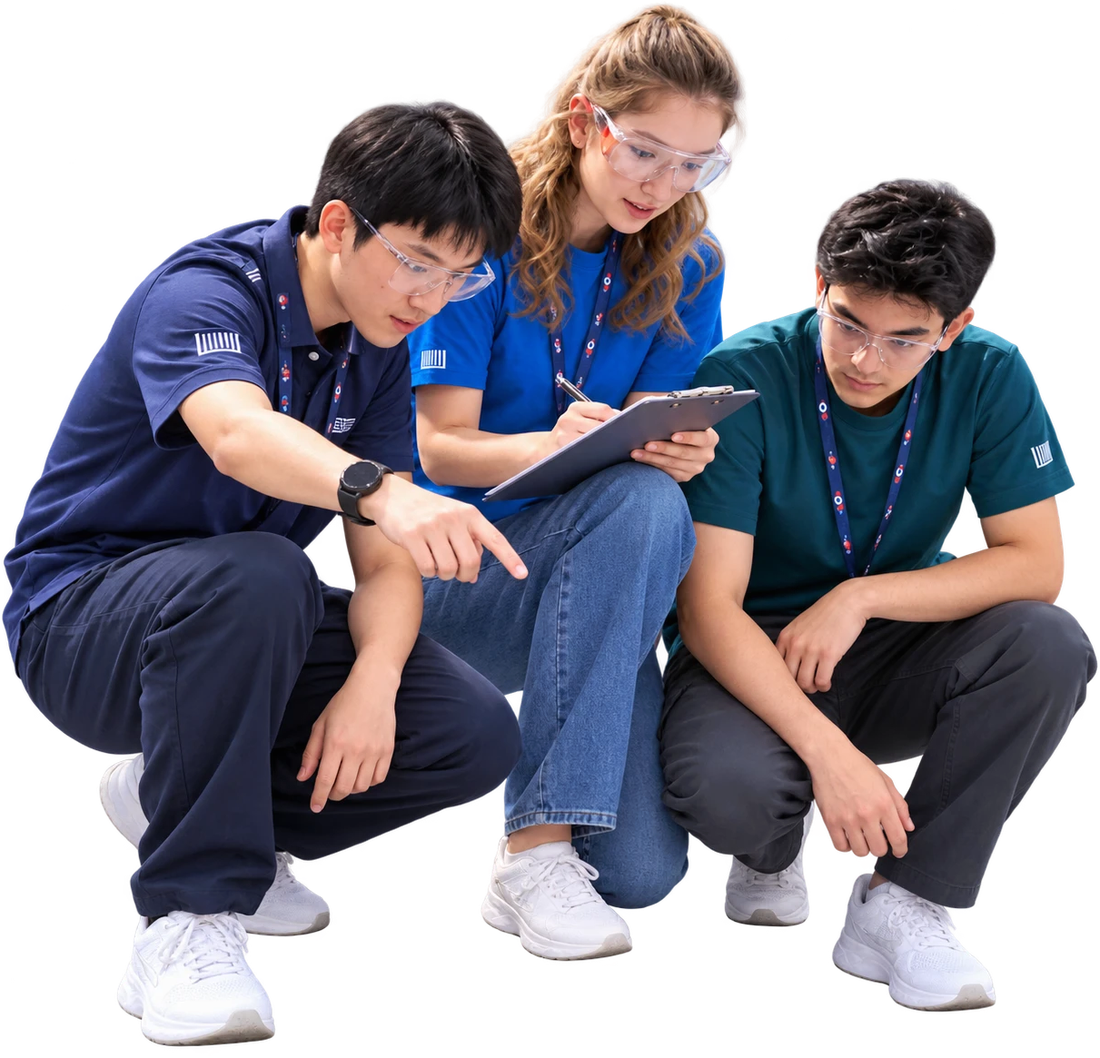
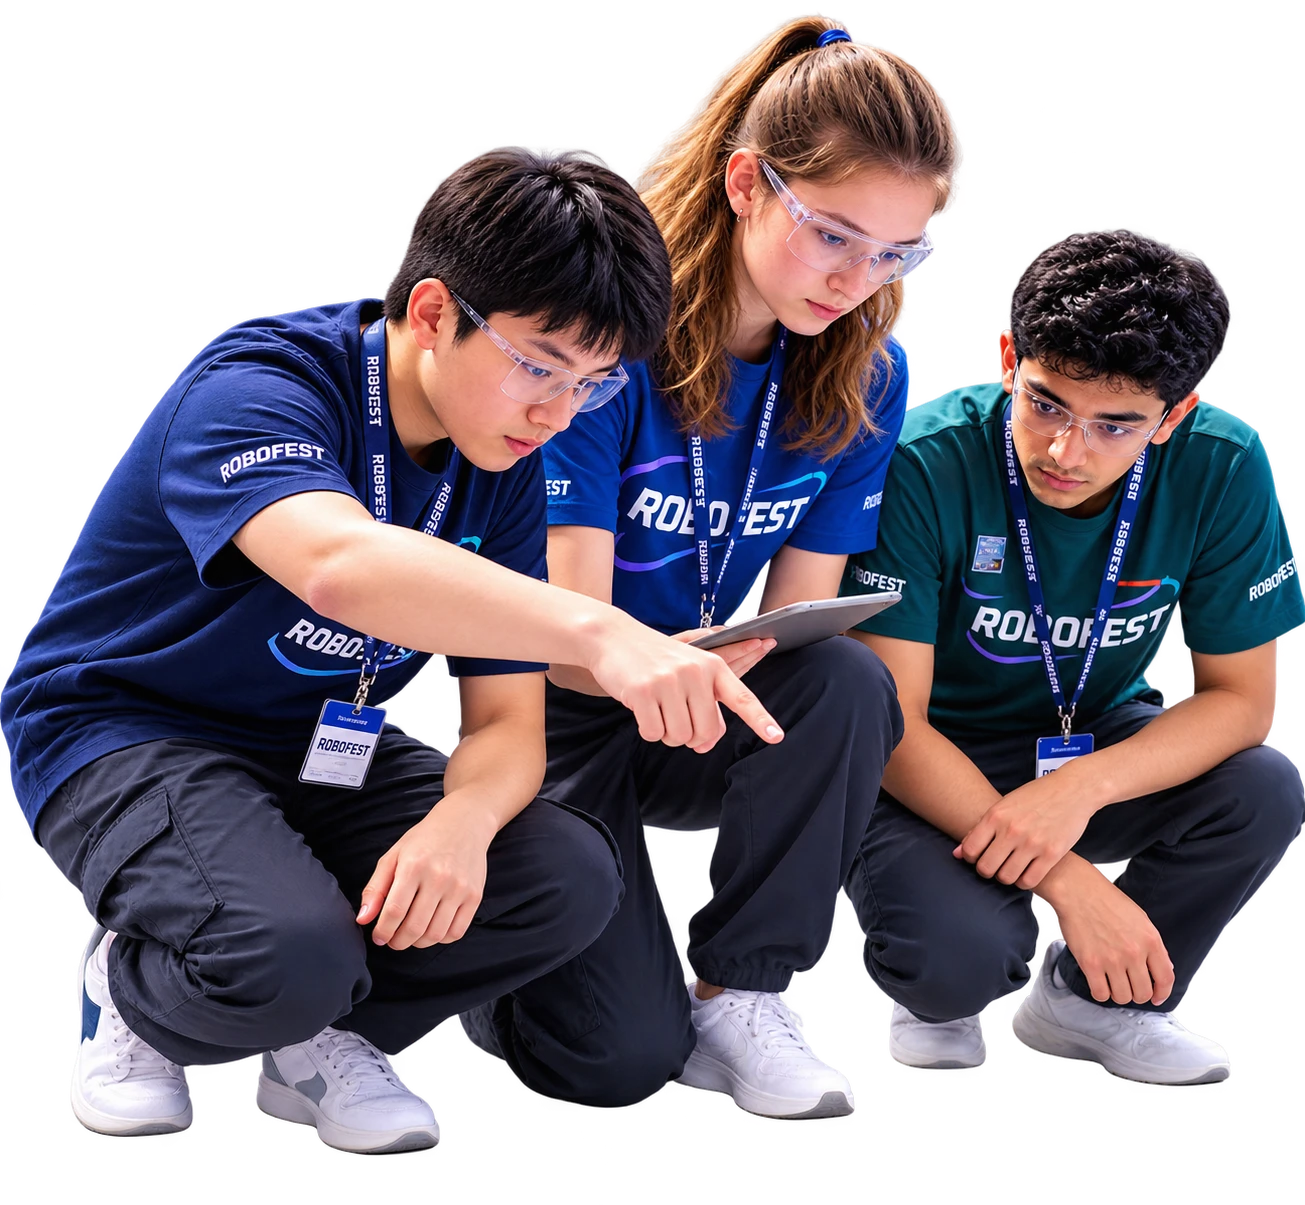
표지: 사람 에셋 교체 (ROBOFEST 유니폼 버전)

diff --git a/index.html b/index.html
@@ -69,8 +69,8 @@
          bottom:calc(var(--pt) + 3.917*var(--u))}
   .kv-rb{height:calc(22.337*var(--u));margin-left:calc(-8.909*var(--u));
          bottom:calc(var(--pt) + 4.624*var(--u))}
-  .kv-people{height:calc(25.995*var(--u));margin-left:calc(-4.847*var(--u));
-         bottom:calc(var(--pt) + 4.530*var(--u))}
+  .kv-people{height:calc(24.869*var(--u));margin-left:calc(-4.800*var(--u));
+         bottom:calc(var(--pt) + 3.789*var(--u))}
   .kv-rc{height:calc(16.701*var(--u));margin-left:calc(1.995*var(--u));
          bottom:calc(var(--pt) + 2.571*var(--u))}
   .kv-rd{height:calc(16.985*var(--u));margin-left:calc(5.458*var(--u));
@@ -171,7 +171,7 @@
         <p class="kv-date">2026.10.29 (목) 14:00~18:00</p>
         <p class="kv-place">광운대학교 광운스퀘어</p>
       </div>
-      <img class="kv-people" src="kv/people.png" alt="">
+      <img class="kv-people" src="kv/people.png?v=2" alt="">
       <img class="kv-r kv-rb" src="kv/robot-b.png?v=2" alt="">
       <img class="kv-r kv-ra" src="kv/robot-a.png?v=2" alt="">
       <img class="kv-r kv-rc" src="kv/robot-c.png?v=2" alt="">
